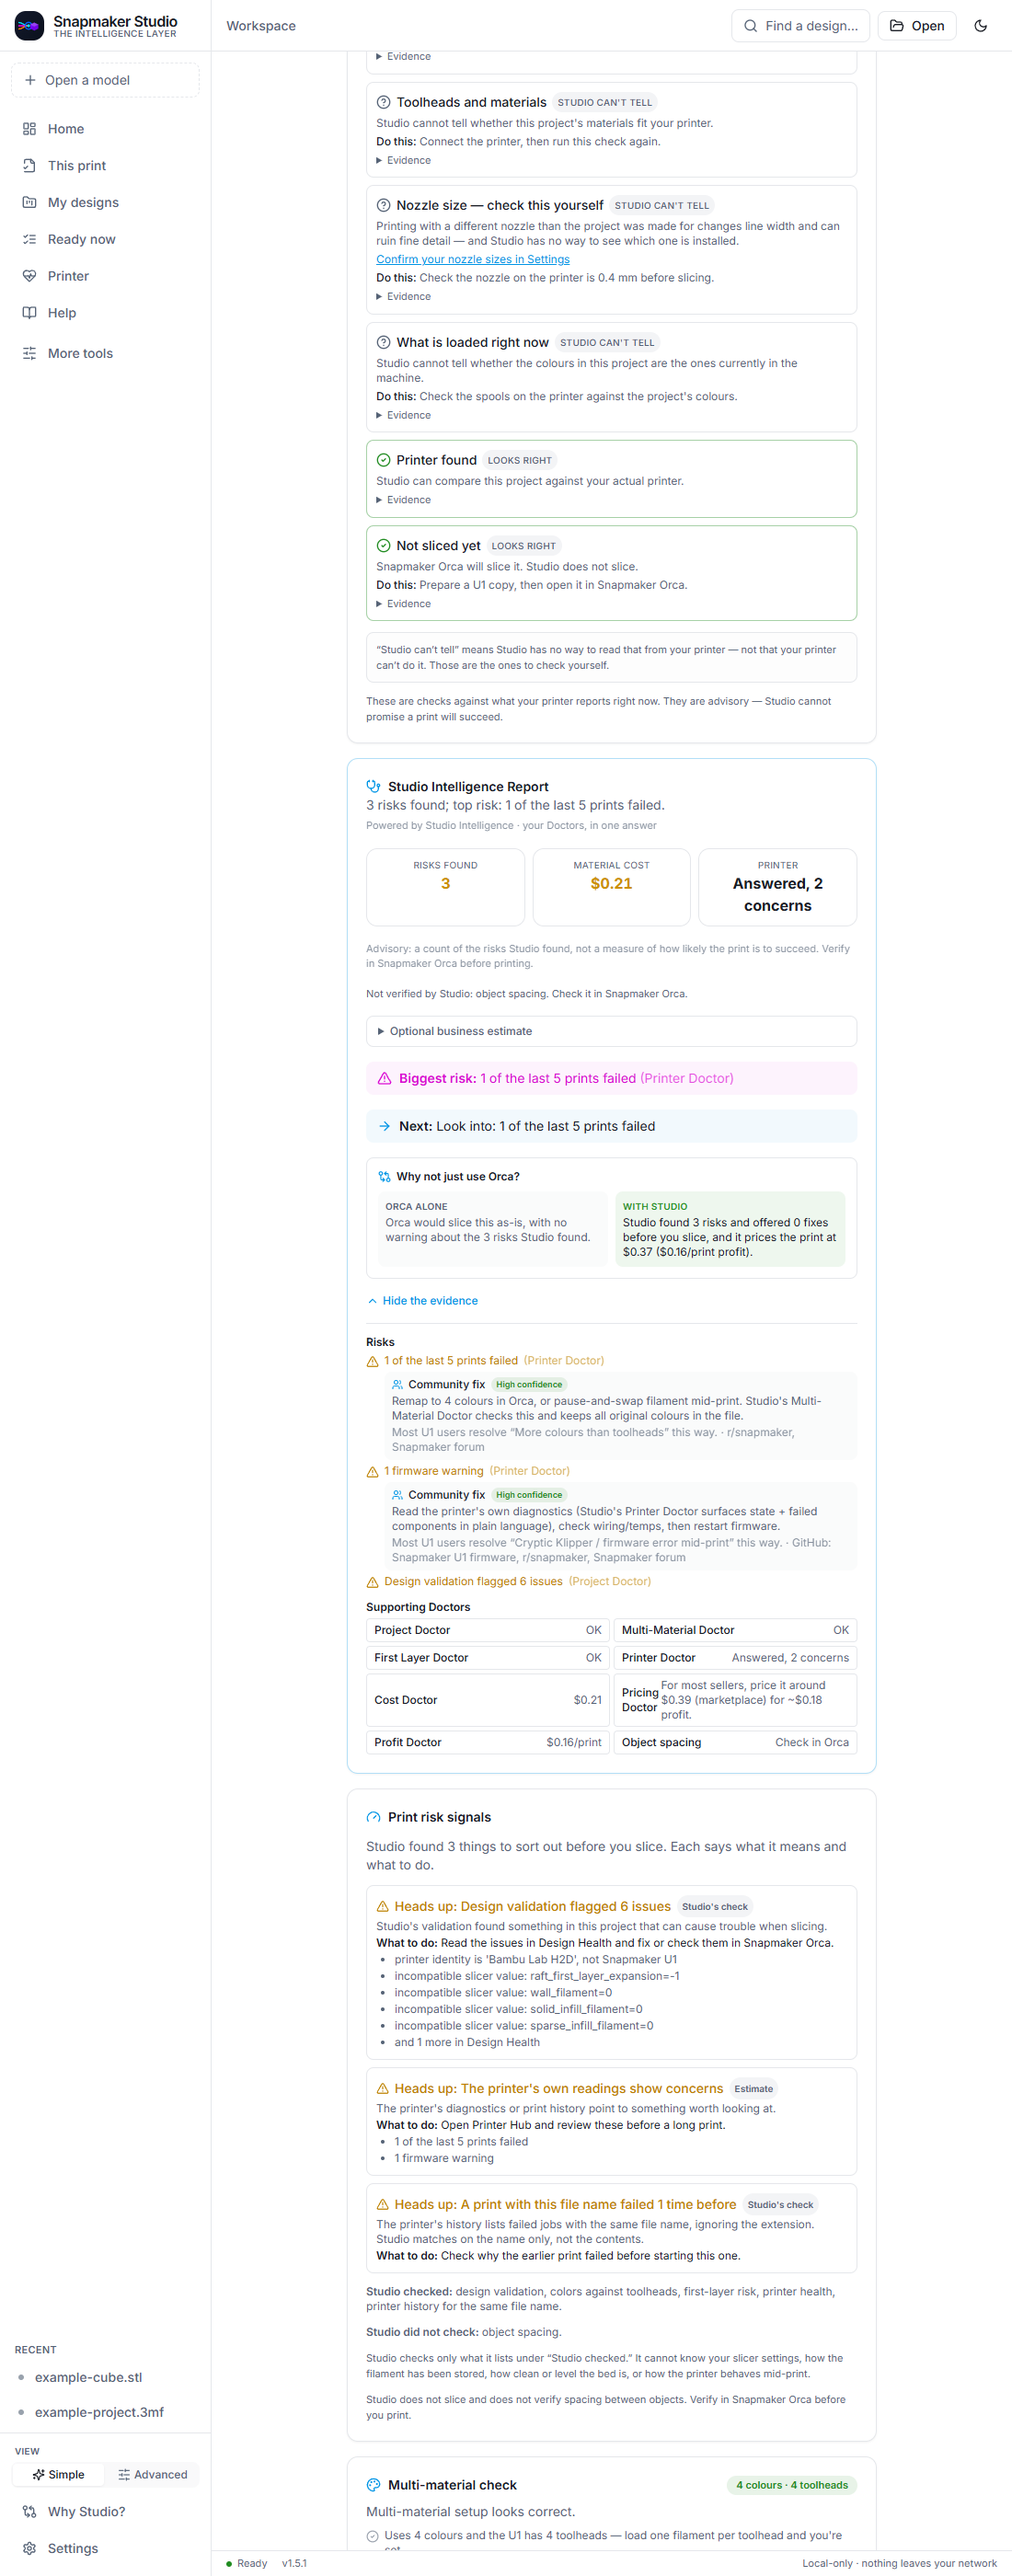
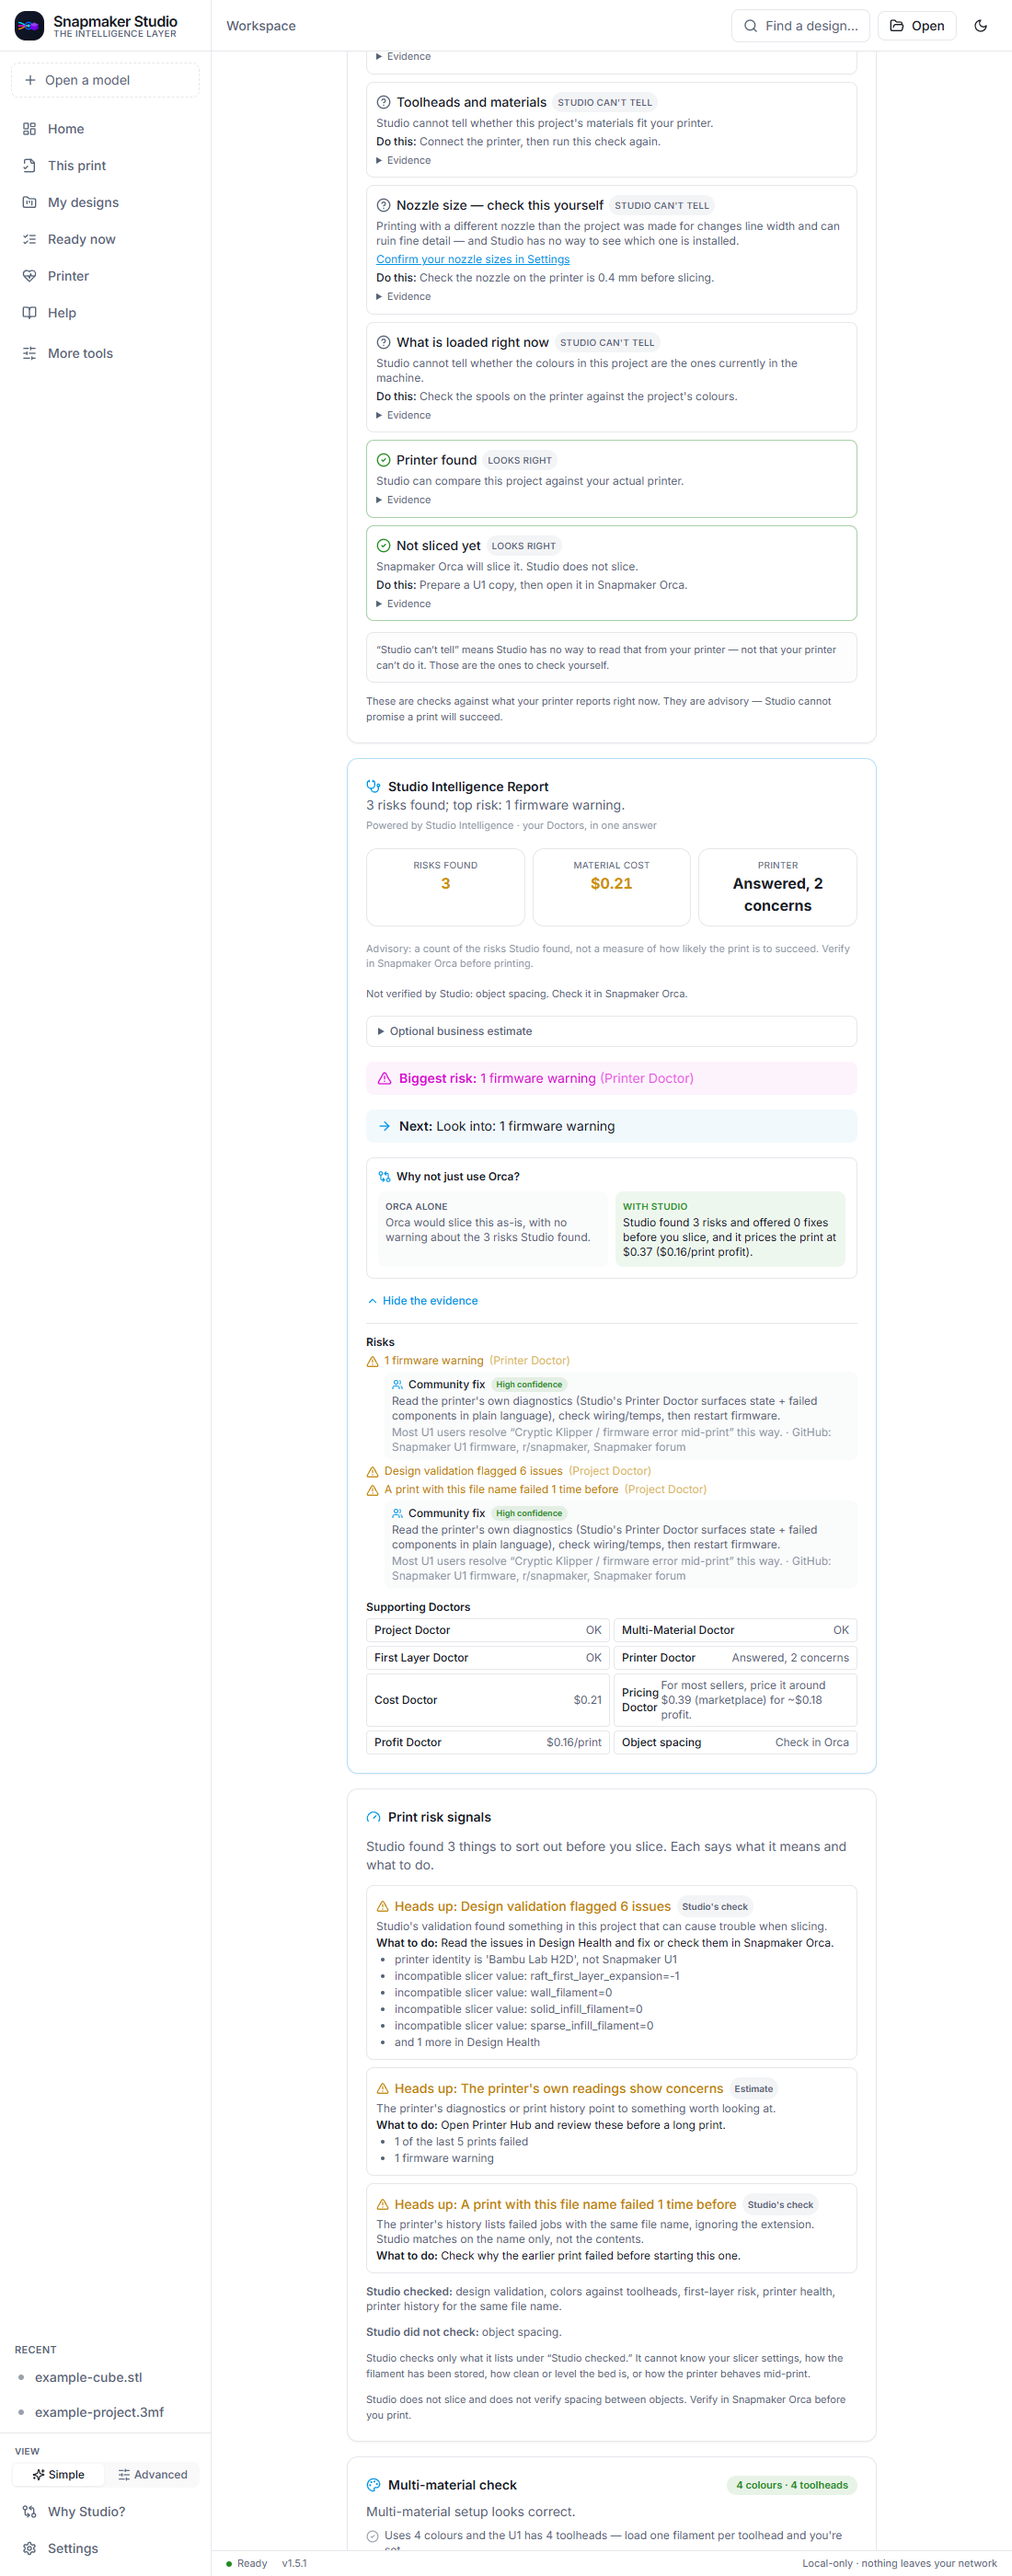
fix(#92): one risk per condition, strongest evidence kept, Next matches Biggest risk; paraphrase copy removed
Predictor signals no longer duplicate the Multi-Material / First Layer Doctor findings (severity
is merged); failure rate, streak and exact-file repeat count once and keep the exact-file
evidence; Next comes from the biggest risk. README, doctor blurbs and the Why Studio table no
longer say 'will actually print', 'will stick', 'always know what's ready' or '0-100 health
score'; the guard blocks those paraphrases across desktop/src. Edge script checks port 7125 up front.

Verified: pytest 2950 passed 49 skipped; vitest 868 passed; tsc clean; build ok; guide check
50/50, e2e 1462/1462; Edge 30/30.

Changed region(s): [[0.3709, 0.5282, 0.8036, 0.6214]]

diff --git a/desktop/src/lib/doctors.ts b/desktop/src/lib/doctors.ts
@@ -29,16 +29,16 @@ export interface Doctor {
 export const DOCTORS: Doctor[] = [
   { id: "project", name: "Project Doctor", icon: FileCheck2, stage: "Diagnose",
     token: "--doctor-project", tier: "P0", route: "/doctor/project",
-    answers: "Will it fit and print on your U1? Catches out-of-bounds before Orca." },
+    answers: "What is at risk before you slice? Catches out-of-bounds before Orca." },
   { id: "printer", name: "Printer Hub", icon: HeartPulse, stage: "Validate",
     token: "--doctor-printer", tier: "P0", route: "/printers",
-    answers: "Is your U1 healthy? One 0–100 score from its own signals." },
+    answers: "What does your U1 report about itself? Firmware state and print history." },
   { id: "first-layer", name: "First Layer Doctor", icon: Layers, stage: "Diagnose",
     token: "--stage-input", tier: "P0", route: "/first-layer",
-    answers: "Will the first layer stick? Adhesion & bed-mesh risk, explained." },
+    answers: "What could hurt the first layer? Adhesion & bed-mesh risk, explained." },
   { id: "multi-material", name: "Multi-Material Doctor", icon: Palette, stage: "Diagnose",
     token: "--stage-transform", tier: "P0", route: "/colors",
-    answers: "Will your colours print right? Toolheads, mapping & purge checks." },
+    answers: "How do your colors map to the toolheads? Mapping & purge checks." },
   { id: "cost", name: "Cost & Pricing Doctor", icon: Coins, stage: "Print",
     token: "--doctor-cost", tier: "P1", route: "/doctor/cost",
     answers: "What does this print truly cost? Material, power, wear & labour." },

diff --git a/desktop/src/routes/WhyStudio.tsx b/desktop/src/routes/WhyStudio.tsx
@@ -19,9 +19,9 @@ const ROWS: { q: string; orca: Cell; fluidd: Cell; studio: Cell }[] = [
   { q: "What should I sell it for / my profit?",
     orca: { v: "no", t: "—" }, fluidd: { v: "no", t: "—" },
     studio: { v: "yes", t: "Pricing + Profit Doctor" } },
-  { q: "Is my printer healthy?",
+  { q: "What does my printer report about itself?",
     orca: { v: "no", t: "—" }, fluidd: { v: "partial", t: "Raw telemetry" },
-    studio: { v: "yes", t: "0–100 health score" } },
+    studio: { v: "yes", t: "Firmware state + print history (read-only)" } },
   { q: "What's the community's fix for this?",
     orca: { v: "no", t: "—" }, fluidd: { v: "no", t: "—" },
     studio: { v: "yes", t: "Built-in, per risk" } },

diff --git a/desktop/src/lib/noReadinessScore.test.ts b/desktop/src/lib/noReadinessScore.test.ts
@@ -8,7 +8,9 @@ const BANNED: [string, RegExp][] = [
   ["star rating", /\bStars?\b|StarHalf|readinessStars|of 5`/],
   ["score field", /<dt>Score<\/dt>|d\.score|scoreCap|studio_score|print_success_score/],
   ["readiness score copy", /print-readiness score|readiness score|Readiness \(est/i],
-  ["will-it-print promise", /will it print/i],
+  ["will-it-print promise", /will it print|will actually print|will stick|will print|will it fit and print/i],
+  ["certainty paraphrase", /always know|ready to print|print-ready|what's ready|what.s ready/i],
+  ["0-100 health score", /0\s*[–-]\s*100/],
 ];
 
 describe("no numeric readiness or will-it-print copy in the UI", () => {

diff --git a/desktop/src/routes/Printers.tsx b/desktop/src/routes/Printers.tsx
@@ -86,7 +86,7 @@ export default function Printers() {
     queryFn: () => printerFailureInsights(connected as string),
     enabled: !!connected, refetchInterval: connected ? 60000 : false, retry: false,
   });
-  // Printer Health Score: one 0–100 folding firmware state + history failures.
+  // Printer health: firmware state and history failures, as the printer reports them.
   const health = useQuery({
     queryKey: ["printer-health", connected],
     queryFn: () => printerHealth(connected as string),

diff --git a/desktop/src/api.ts b/desktop/src/api.ts
@@ -696,7 +696,7 @@ export function printerFailureInsights(host: string, port = 7125): Promise<Failu
   return printerPost("/printer/failure_insights", { host, port });
 }
 
-// Printer Health Score: one 0–100 from the U1's own read-only firmware + history signals.
+// Printer health: what the U1's own read-only firmware state and print history show.
 export interface PrinterHealth {
   available: boolean;
   score?: number;

diff --git a/backend/tests/test_intelligence_report.py b/backend/tests/test_intelligence_report.py
@@ -245,19 +245,6 @@ def test_unverified_spacing_is_never_reported_as_found_nothing():
     assert with_risk["next_action"].startswith("Look into:") and "Address:" not in with_risk["next_action"]
 
 
-def test_a_failed_print_is_counted_once_not_by_both_the_file_signal_and_the_health_driver():
-    out = ir.build(
-        predict={"available": True, "signals": [
-            {"id": "repeat-failure", "level": "warn", "title": "A print with this file name failed 1 time before"}]},
-        health={"available": True, "drivers": ["1 of the last 5 prints failed"]},
-    )
-    assert out["risks_found"] == 1
-    # with no printer-wide failure driver the file-specific signal still counts
-    solo = ir.build(predict={"available": True, "signals": [
-        {"id": "repeat-failure", "level": "warn", "title": "A print with this file name failed 1 time before"}]})
-    assert solo["risks_found"] == 1
-
-
 def test_health_verdict_has_no_number_or_good_to_print():
     from snapstudio_core import health_score
     for failures in (None, {"available": True, "failure_rate": 0.5, "failed": 5, "total": 10, "recent_failure_streak": 0}):
@@ -265,12 +252,59 @@ def test_health_verdict_has_no_number_or_good_to_print():
         assert not re.search(r"[0-9]|good to print|healthy", v.lower()), v
 
 
-def test_failure_history_is_counted_once_across_rate_streak_and_file_signal():
-    out = ir.build(
-        predict={"available": True, "signals": [
-            {"id": "repeat-failure", "level": "warn", "title": "A print with this file name failed 2 times before"}]},
-        health={"available": True, "drivers": ["3 of the last 10 prints failed", "3 prints failed in a row", "1 firmware warning"]},
+# --- real Doctor/predictor output, not hand-set levels ---
+from snapstudio_core import bed_fit as _bf, health_score as _hs, mm_doctor as _mm, success_predict as _sp, toolhead_fit as _tf
+
+
+def test_failure_history_counts_once_and_keeps_the_exact_file_evidence():
+    """Rate driver + streak driver + exact-file repeat signal are one condition: keep the strongest (the file signal)."""
+    health = _hs.score(
+        diagnostics={"klippy_state": "ready", "warnings": [], "failed_components": []},
+        failures={"available": True, "failure_rate": 0.4, "failed": 4, "total": 10, "recent_failure_streak": 4},
     )
-    texts = [r["text"] for r in out["risks"]]
-    assert texts == ["3 of the last 10 prints failed", "1 firmware warning"]
-    assert out["risks_found"] == 2
+    predict = _sp.findings(readiness={"ready": True}, prior_failures=2, health=health, printer_checked=True)
+    assert any("prints failed" in d for d in health["drivers"]) and len([d for d in health["drivers"] if "failed" in d]) == 2
+    out = ir.build(predict=predict, health=health)
+    failure = [r for r in out["risks"] if "failed" in r["text"]]
+    assert len(failure) == 1
+    assert failure[0]["level"] == "risk" and "file name" in failure[0]["text"]   # success_predict marks >=2 same-name failures a risk
+    assert out["risks_found"] == 1 and out["biggest_risk"]["level"] == "risk"
+
+
+def test_generic_failure_driver_alone_still_counts_once():
+    health = _hs.score(
+        diagnostics={"klippy_state": "ready", "warnings": [], "failed_components": []},
+        failures={"available": True, "failure_rate": 0.4, "failed": 4, "total": 10, "recent_failure_streak": 4},
+    )
+    out = ir.build(predict=_sp.findings(readiness={"ready": True}, health=health, printer_checked=True), health=health)
+    assert len(out["risks"]) == 1 and "failed" in out["risks"][0]["text"]   # rate and streak describe the same jobs
+
+
+def test_five_color_project_is_one_risk_not_two():
+    """The Multi-Material Doctor and the predictor describe the same colors-vs-toolheads condition."""
+    mm = _mm.assess(5, heads=4, heads_known=True)
+    tf = _tf.assess(5, 4, True)
+    predict = _sp.findings(readiness={"ready": True}, toolfit=tf)
+    assert any(sg["id"] == "toolhead-fit" for sg in predict["signals"])
+    out = ir.build(predict=predict, mm=mm)
+    assert out["risks_found"] == 1 and out["risks"][0]["doctor"] == "Multi-Material Doctor"
+    assert out["risks"][0]["level"] == "risk"
+
+
+def test_first_layer_condition_is_not_counted_by_both_doctor_and_predictor():
+    fl = {"available": True, "overall_level": "warn", "findings": [{"level": "warn", "text": "Small contact area"}],
+          "fixes": ["Add a brim."]}
+    predict = _sp.findings(readiness={"ready": True}, first_layer=fl)
+    out = ir.build(predict=predict, first_layer=fl)
+    assert out["risks_found"] == 1 and out["risks"][0]["doctor"] == "First Layer Doctor"
+
+
+def test_next_action_goes_with_the_biggest_risk():
+    """Near-full bed (warn) listed first by Doctor order + too many colors (risk): Next must be the colors step."""
+    bed = _bf.assess({"x": 268, "y": 100, "z": 10}, bed={"x": 270, "y": 270, "z": 270}, bed_known=True,
+                     object_count=1, multi_material=False)
+    mm = _mm.assess(5, heads=4, heads_known=True)
+    out = ir.build(bed_fit=bed, mm=mm)
+    assert out["biggest_risk"]["doctor"] == "Multi-Material Doctor" and out["biggest_risk"]["level"] == "risk"
+    assert out["next_action"] == mm["fixes"][0]
+    assert out["next_action"] != bed["fixes"][0]

diff --git a/backend/snapstudio_core/intelligence_report.py b/backend/snapstudio_core/intelligence_report.py
@@ -22,7 +22,10 @@ def _push_findings(risks, recs, doctor, doc):
         return
     for f in (doc.get("findings") or []):
         if f.get("level") in ("warn", "risk"):
-            risks.append({"doctor": doctor, "level": f["level"], "text": f["text"]})
+            risk = {"doctor": doctor, "level": f["level"], "text": f["text"]}
+            if (doc.get("fixes") or []):
+                risk["action"] = doc["fixes"][0]   # what to do about THIS doctor's findings
+            risks.append(risk)
     for fx in (doc.get("fixes") or []):
         recs.append(fx)
 
@@ -106,27 +109,45 @@ def build(predict=None, bed_fit=None, mm=None, first_layer=None, health=None,
     _push_findings(risks, recs, "Size fit (dimensions only)", bed_fit)
     _push_findings(risks, recs, "Multi-Material Doctor", mm)
     _push_findings(risks, recs, "First Layer Doctor", first_layer)
-    if avail["health"]:
-        failure_history_counted = False
-        for d in (health.get("drivers") or []):
-            if "no problem" in d.lower():
+    drivers = [d for d in ((health or {}).get("drivers") or []) if "no problem" not in d.lower()] if avail["health"] else []
+    signals = [sg for sg in ((predict or {}).get("signals") or [])] if avail["predict"] else []
+    repeat = next((sg for sg in signals if sg.get("id") == "repeat-failure"), None)
+
+    # One condition, one risk. Failure history reaches us three ways (failure-rate driver, failure-streak
+    # driver, exact-file repeat signal); keep the strongest evidence, which is the exact-file signal.
+    failure_done = False
+    for d in drivers:
+        if "prints failed" in d:
+            if repeat is not None or failure_done:
                 continue
-            if "prints failed" in d:
-                # the failure-rate and failure-streak drivers describe the same failed jobs: count them once
-                if failure_history_counted:
-                    continue
-                failure_history_counted = True
-            risks.append({"doctor": "Printer Doctor", "level": "warn", "text": d})
-    if avail["predict"]:
-        for sig in (predict.get("signals") or []):
-            if sig.get("id") == "printer-health":
-                continue   # the same drivers are already listed as Printer Doctor risks
-            if sig.get("id") == "repeat-failure" and any(
-                    "prints failed" in str(d) for d in ((health or {}).get("drivers") or [])):
-                continue   # the same failed jobs are already counted by the Printer Doctor's failure driver
-            risks.append({"doctor": "Project Doctor",
-                          "level": "risk" if sig.get("level") == "risk" else "warn",
-                          "text": sig.get("title") or ""})
+            failure_done = True
+        risks.append({"doctor": "Printer Doctor", "level": "warn", "text": d})
+
+    def _level(sg):
+        return "risk" if sg.get("level") == "risk" else "warn"
+
+    def _merge_into_doctor(doctor, sg):
+        """The Doctor already reports this condition: raise its severity if the signal is stronger, do not add a second risk."""
+        mine = [r for r in risks if r["doctor"] == doctor]
+        if not mine:
+            return False
+        for r in mine:
+            if _ORDER[_level(sg)] > _ORDER.get(r["level"], 0):
+                r["level"] = _level(sg)
+        return True
+
+    for sg in signals:
+        sid = sg.get("id")
+        if sid == "printer-health":
+            continue   # the same drivers are already listed as Printer Doctor risks
+        if sid == "toolhead-fit" and _merge_into_doctor("Multi-Material Doctor", sg):
+            continue   # the Multi-Material Doctor reports this same colors-vs-toolheads condition
+        if sid == "first-layer" and _merge_into_doctor("First Layer Doctor", sg):
+            continue
+        risk = {"doctor": "Project Doctor", "level": _level(sg), "text": sg.get("title") or ""}
+        if sg.get("action"):
+            risk["action"] = sg["action"]
+        risks.append(risk)
     if avail["profit"] and (profit.get("profit_per_print") or 0) <= 0:
         risks.append({"doctor": "Profit Doctor", "level": "warn",
                       "text": "Priced below cost — not profitable as-is."})
@@ -164,7 +185,8 @@ def build(predict=None, bed_fit=None, mm=None, first_layer=None, health=None,
 
     # --- the one next action ---
     if biggest_risk:
-        next_action = recommendations[0] if recommendations else f"Look into: {biggest_risk['text']}"
+        # The step that goes with the biggest risk, not just the first fix in Doctor order.
+        next_action = biggest_risk.get("action") or f"Look into: {biggest_risk['text']}"
     else:
         next_action = ("Check spacing between objects in Snapmaker Orca, then prepare a U1 profile copy and review it before slicing."
                        if spacing_unverified else

diff --git a/README.md b/README.md
@@ -8,7 +8,7 @@
 [![CI](https://github.com/DVOpenLabs/snapmaker-studio/actions/workflows/ci.yml/badge.svg?branch=main)](https://github.com/DVOpenLabs/snapmaker-studio/actions/workflows/ci.yml)
 ![Status: stable](https://img.shields.io/badge/status-stable-brightgreen.svg)
 
-### You downloaded a model. Will it actually print on your U1?
+### You downloaded a model. What should you check before it goes to your U1?
 
 **Snapmaker Studio checks it against your real printer before you slice — tells you
 what is likely to go wrong, fixes what it can prove, and shows you exactly what
@@ -526,7 +526,7 @@ is the first printer target; the workflow is built to grow across ecosystems.
   confirmation. Studio never auto-starts a print and uploads sliced gcode only (it
   does not slice).
 - **Design Library** — everything you open is checked, and kept with its full
-  history, so you always know what's ready.
+  history, so you can see what Studio found.
 - **Engine + CLI** — the same workflow as a pure-Python engine and `u1convert` CLI for
   scripting and automation.
 
